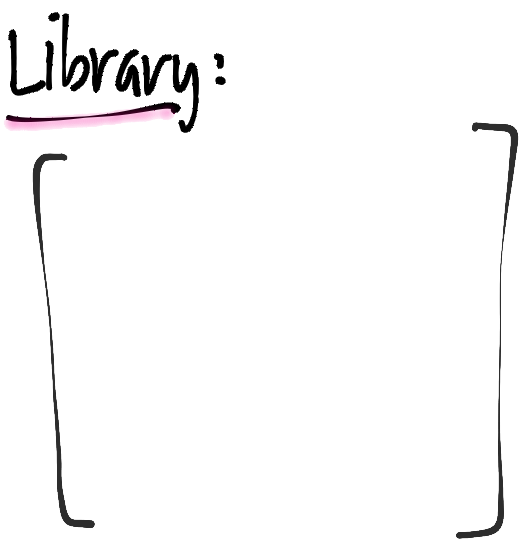
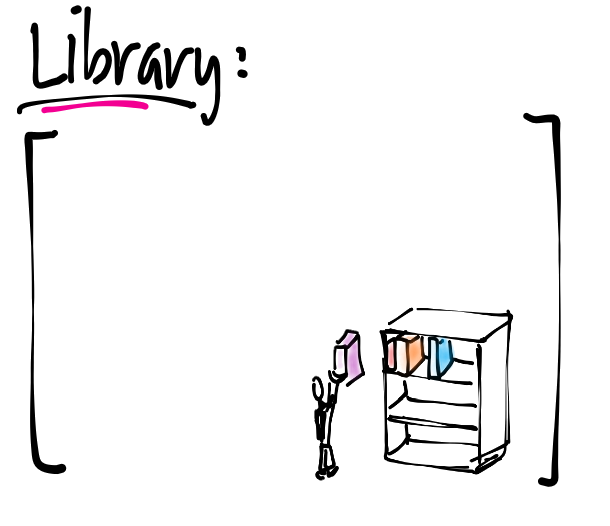
Refactored index with new drawings and link colors.

diff --git a/index.html b/index.html
@@ -1,7 +1,7 @@
 <!DOCTYPE html>
 <html>
 <head>
-  <link rel="icon" href="favicon.png" type="image/x-icon" />
+  <link rel="icon" href="img/favicon.png" type="image/x-icon" />
   <meta content="text/html;charset=utf-8" http-equiv="Content-Type" />
   <title>Learn Rholang By Example</title>
   <link rel="stylesheet" type="text/css" href="css/index.css" />
@@ -16,7 +16,6 @@
       <li><a href="lesson2-Receiving/index.html">Lesson 2: Receiving</a></li>
       <li><a href="lesson3-TelephoneNamesAndProcesses/index.html">Lesson 3: Telephone, Names, and Processes</a></li>
     </ul>
-    <img id="bookshelf" src="img/bookshelf.png" alt="Placing new lessons on the bookshelf" />
   </div>
 
 </body>

diff --git a/css/index.css b/css/index.css
@@ -1,3 +1,7 @@
+header img {
+  width: 100%;
+}
+
 body {
   width: 520px; /*TODO*/
   height: 100%;
@@ -10,15 +14,17 @@ body {
   height: 25em;
   background-image: url("../img/library.png"); /* Path relative to css. */
   background-repeat: no-repeat;
+  background-size: contain;
   padding-top: 10em;
   padding-left: 2em;
 
   position: relative; /* So bookshelf can be absolute */
 }
 
-#bookshelf {
-  width: 60%;
-  position: absolute;
-  left: 15%;
-  bottom: 0;
+a {
+  color: #F30092;
+}
+
+a:visited {
+  color: black;
 }
